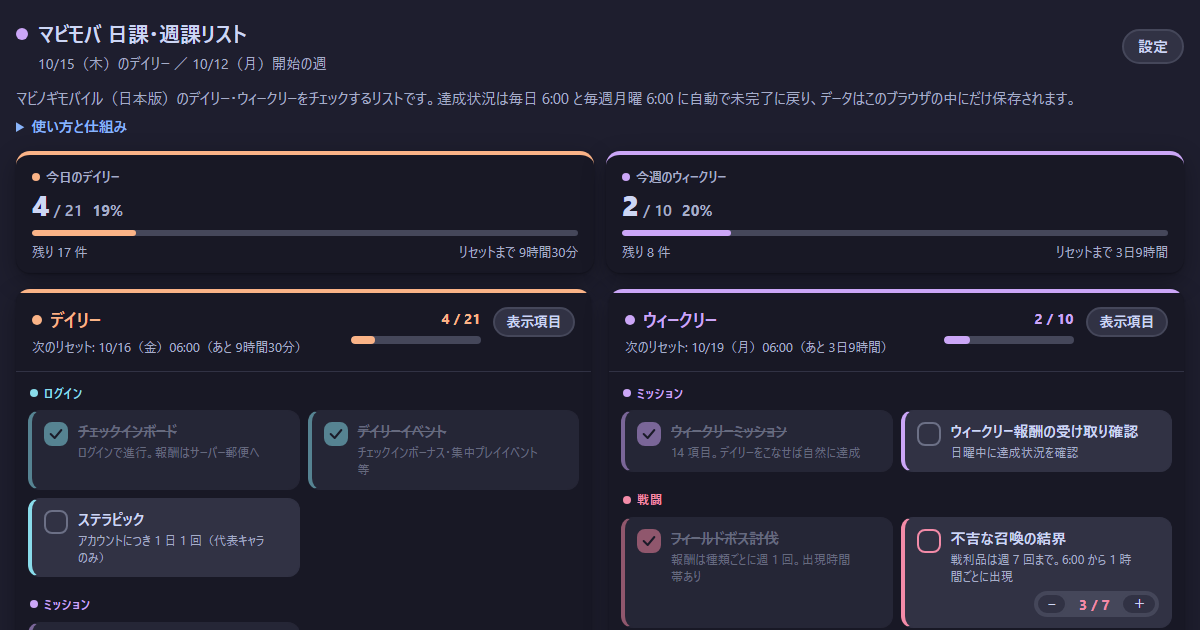
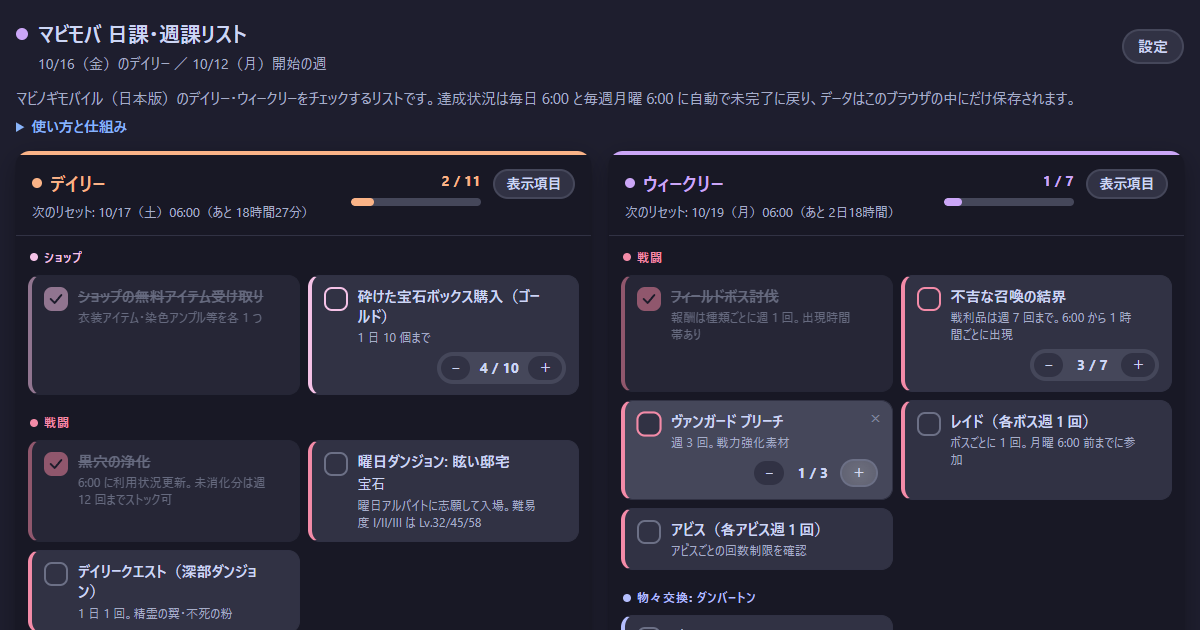
fix: OGP 画像を現行画面で撮り直し、概要文に GA 利用を明記、Latte の文字コントラストと背景を調整、完了カードをカテゴリ色で薄く塗る
- assets/og-image.png を今の画面（Mocha、1200×630、サンプル進捗入り）で撮り直し
- 「使い方と仕組み」に Google アナリティクス利用の一文を追加（チェック内容や設定は送信しない旨を明記）
- Latte の薄い文字色を subtext1 に変更。アクセント色を文字に使う箇所（列見出し・達成数・カテゴリ見出し・リンク）は、フレーバーごとの混合率トークンで文字色と混ぜてコントラストを確保（ダーク系は 100% で見た目据え置き）
- 回数カードの数字は全フレーバーで通常の文字色に変更
- 列見出し（デイリー / ウィークリー）を 1.2rem に
- Latte の背景を base、パネル・カード・ボタンの地色を白に変更して明るく
- 完了したカードの半透明化をやめ、カテゴリ色を地色に薄く混ぜた背景に変更（Latte 14% / ダーク系 20%、ホバーで +6%）

Changed region(s): [[0.0, 0.2413, 0.9867, 1.0], [0.7708, 0.2413, 0.9867, 0.3317], [0.0617, 0.0905, 0.0925, 0.1206]]

diff --git a/css/style.css b/css/style.css
@@ -41,19 +41,24 @@
   --ctp-mantle: #e6e9ef;
   --ctp-crust: #dce0e8;
   color-scheme: light;
-  --bg: var(--ctp-mantle);
-  --panel: var(--ctp-base);
-  --card: var(--ctp-base);
+  --bg: var(--ctp-base);
+  --panel: #ffffff;
+  --card: #ffffff;
   --card-border: var(--ctp-surface0);
-  --card-hover: var(--ctp-mantle);
-  --control: var(--ctp-base);
-  --control-hover: var(--ctp-crust);
+  --card-hover: var(--ctp-base);
+  --control: #ffffff;
+  --control-hover: var(--ctp-mantle);
   --border: var(--ctp-surface0);
   --track: var(--ctp-surface0);
   --check-border: var(--ctp-overlay0);
   --text: var(--ctp-text);
-  --text-muted: var(--ctp-subtext0);
+  --text-muted: var(--ctp-subtext1);
   --text-faint: var(--ctp-overlay1);
+  /* アクセント色を文字に使うときの混合率（残りは --text と混ぜる）。Latte はアクセントが淡く小さな文字で読みにくいので、暗い文字色に寄せてコントラストを確保する */
+  --accent-text-mix: 35%;
+  --accent-heading-mix: 80%;
+  /* 完了したカードの背景にカテゴリ色を混ぜる割合 */
+  --done-tint: 14%;
   --shadow: 0 1px 2px rgba(76, 79, 105, 0.05), 0 8px 24px rgba(76, 79, 105, 0.08);
   --backdrop: rgba(76, 79, 105, 0.35);
   --btn-glow: rgba(76, 79, 105, 0.14);
@@ -99,6 +104,9 @@
   --text: var(--ctp-text);
   --text-muted: var(--ctp-subtext0);
   --text-faint: var(--ctp-overlay1);
+  --accent-text-mix: 100%;
+  --accent-heading-mix: 100%;
+  --done-tint: 20%;
   --shadow: 0 1px 2px rgba(0, 0, 0, 0.25), 0 8px 24px rgba(0, 0, 0, 0.3);
   --backdrop: rgba(0, 0, 0, 0.55);
   --btn-glow: rgba(255, 255, 255, 0.22);
@@ -144,6 +152,9 @@
   --text: var(--ctp-text);
   --text-muted: var(--ctp-subtext0);
   --text-faint: var(--ctp-overlay1);
+  --accent-text-mix: 100%;
+  --accent-heading-mix: 100%;
+  --done-tint: 20%;
   --shadow: 0 1px 2px rgba(0, 0, 0, 0.25), 0 8px 24px rgba(0, 0, 0, 0.3);
   --backdrop: rgba(0, 0, 0, 0.55);
   --btn-glow: rgba(255, 255, 255, 0.22);
@@ -189,6 +200,9 @@
   --text: var(--ctp-text);
   --text-muted: var(--ctp-subtext0);
   --text-faint: var(--ctp-overlay1);
+  --accent-text-mix: 100%;
+  --accent-heading-mix: 100%;
+  --done-tint: 20%;
   --shadow: 0 1px 2px rgba(0, 0, 0, 0.25), 0 8px 24px rgba(0, 0, 0, 0.3);
   --backdrop: rgba(0, 0, 0, 0.55);
   --btn-glow: rgba(255, 255, 255, 0.22);
@@ -235,6 +249,9 @@
     --text: var(--ctp-text);
     --text-muted: var(--ctp-subtext0);
     --text-faint: var(--ctp-overlay1);
+    --accent-text-mix: 100%;
+    --accent-heading-mix: 100%;
+    --done-tint: 20%;
     --shadow: 0 1px 2px rgba(0, 0, 0, 0.25), 0 8px 24px rgba(0, 0, 0, 0.3);
     --backdrop: rgba(0, 0, 0, 0.55);
   --btn-glow: rgba(255, 255, 255, 0.22);
@@ -244,6 +261,7 @@
 /* ---- アクセント（全フレーバー共通の役割割り当て） ---- */
 :root {
   --primary: var(--ctp-blue);
+  --link: color-mix(in srgb, var(--primary) var(--accent-heading-mix), var(--text)); /* リンク・見出しなど文字に使う primary */
   --on-accent: var(--ctp-base);
   --daily: var(--ctp-peach);
   --weekly: var(--ctp-mauve);
@@ -315,9 +333,9 @@ h1::before {
   flex: 0 0 auto;
 }
 h2 { font-size: 1.1rem; }
-h3 { font-size: 0.9rem; margin: 18px 0 8px; color: var(--primary); }
+h3 { font-size: 0.9rem; margin: 18px 0 8px; color: var(--link); }
 
-a { color: var(--primary); }
+a { color: var(--link); }
 button, input, select { font: inherit; color: inherit; }
 
 .app-header, .columns, .toolbar, .banner, .intro {
@@ -350,7 +368,7 @@ button, input, select { font: inherit; color: inherit; }
 .intro { margin-bottom: 14px; font-size: 0.92rem; color: var(--text-muted); }
 .intro-lead { margin: 0; }
 .intro-more { margin-top: 6px; }
-.intro-more summary { cursor: pointer; color: var(--primary); font-weight: 600; width: fit-content; }
+.intro-more summary { cursor: pointer; color: var(--link); font-weight: 600; width: fit-content; }
 .intro-more ul { margin: 8px 0 0; padding-left: 20px; }
 .intro-more li { margin: 2px 0; }
 
@@ -439,7 +457,7 @@ button, input, select { font: inherit; color: inherit; }
   border-bottom: 1px solid var(--card-border);
 }
 .column-head > div:first-child { flex: 1 1 0; min-width: 0; }
-.column-head h2 { color: var(--sec); display: flex; align-items: center; gap: 8px; }
+.column-head h2 { font-size: 1.2rem; color: color-mix(in srgb, var(--sec) var(--accent-heading-mix), var(--text)); display: flex; align-items: center; gap: 8px; }
 .column-head h2::before {
   content: "";
   width: 10px;
@@ -450,7 +468,7 @@ button, input, select { font: inherit; color: inherit; }
 }
 .reset-info { margin: 4px 0 0; font-size: 0.8rem; color: var(--text-muted); }
 .progress-wrap { min-width: 130px; text-align: right; }
-.progress-text { font-size: 0.9rem; font-weight: 700; font-variant-numeric: tabular-nums; color: var(--sec); }
+.progress-text { font-size: 0.9rem; font-weight: 700; font-variant-numeric: tabular-nums; color: color-mix(in srgb, var(--sec) var(--accent-text-mix), var(--text)); }
 .progress-bar {
   height: 8px;
   margin-top: 6px;
@@ -483,7 +501,7 @@ button, input, select { font: inherit; color: inherit; }
   font-size: 0.78rem;
   font-weight: 700;
   letter-spacing: 0.04em;
-  color: var(--cat);
+  color: color-mix(in srgb, var(--cat) var(--accent-text-mix), var(--text));
 }
 .group-title:first-child { margin-top: 0; }
 .cat-dot {
@@ -521,8 +539,8 @@ button, input, select { font: inherit; color: inherit; }
 .task:active { transform: scale(0.995); }
 .task:focus-visible { outline: 2px solid var(--primary); outline-offset: 2px; }
 /* 完了: 色は足さず、カード全体を薄くして取り消し線 */
-.task.done { opacity: 0.55; }
-.task.done:hover { opacity: 0.8; }
+.task.done { background: color-mix(in srgb, var(--cat) var(--done-tint), var(--card)); }
+.task.done:hover { background: color-mix(in srgb, var(--cat) calc(var(--done-tint) + 6%), var(--card)); }
 .task.done .task-name { text-decoration: line-through; color: var(--text-muted); }
 
 /* チェックボックス: Uiverse.io by kyle1dev (afraid-wasp-94) を Catppuccin 色で。チェック時に線が描かれて弾む */
@@ -601,7 +619,7 @@ button, input, select { font: inherit; color: inherit; }
   font-size: 0.9rem;
 }
 .task-counter .btn { padding: 0 9px; }
-.task-counter .num { min-width: 50px; text-align: center; font-weight: 700; color: var(--cat); }
+.task-counter .num { min-width: 50px; text-align: center; font-weight: 700; color: var(--text); }
 
 .chip {
   display: inline-block;
@@ -775,7 +793,7 @@ fieldset.field { border: 0; padding: 0; margin: 0 0 12px; }
   margin: 10px 0 2px;
   font-size: 0.76rem;
   font-weight: 700;
-  color: var(--cat);
+  color: color-mix(in srgb, var(--cat) var(--accent-text-mix), var(--text));
   letter-spacing: 0.04em;
 }
 

diff --git a/index.html b/index.html
@@ -106,6 +106,7 @@
         <li>各列の「表示項目」で、表示する項目の選択・並べ替え・名前や回数の編集・独自項目の追加ができます。カード右上の × でも項目を外せます。</li>
         <li>物々交換はティルコネイル / トゥガルドアイル / ダンバートン / コレンの 29 NPC・82 件を収録。曜日ダンジョンは曜日に合わせて内容が切り替わります。</li>
         <li>設定からリセット時刻の変更、配色（Catppuccin 4 フレーバー）、設定と進捗の JSON エクスポート / インポートができます。</li>
+        <li>アクセス状況の把握のため Google アナリティクスを使用しています。チェックの内容や設定は送信されません。</li>
         <li>回数や素材名がゲーム内の表示と違う場合は「編集」で直してください。</li>
       </ul>
     </details>
